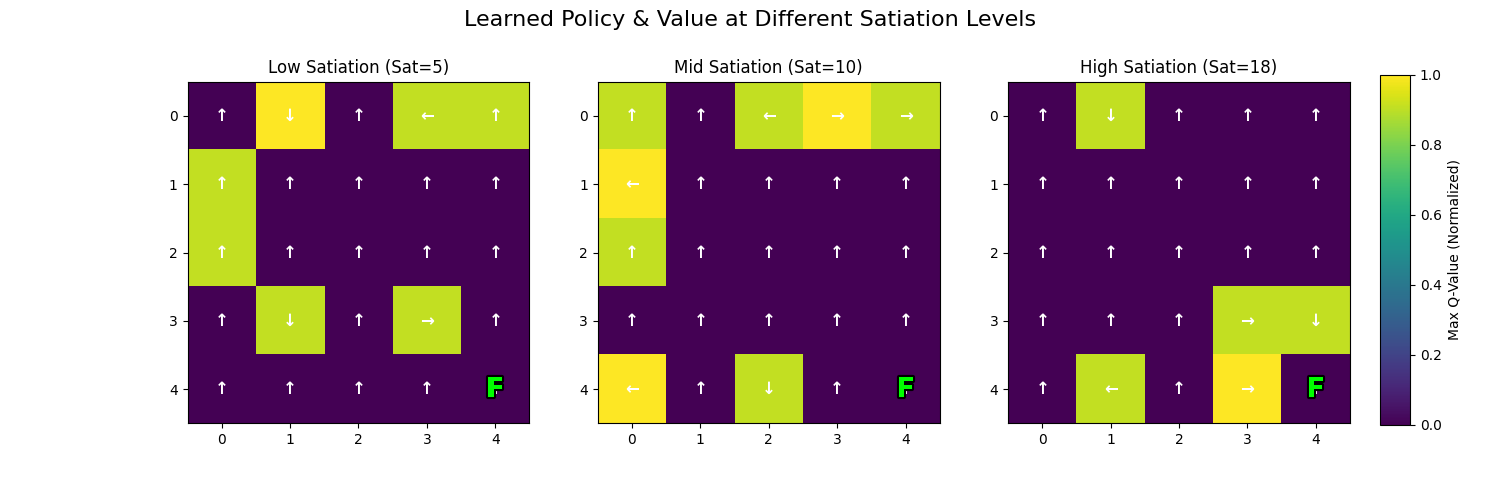
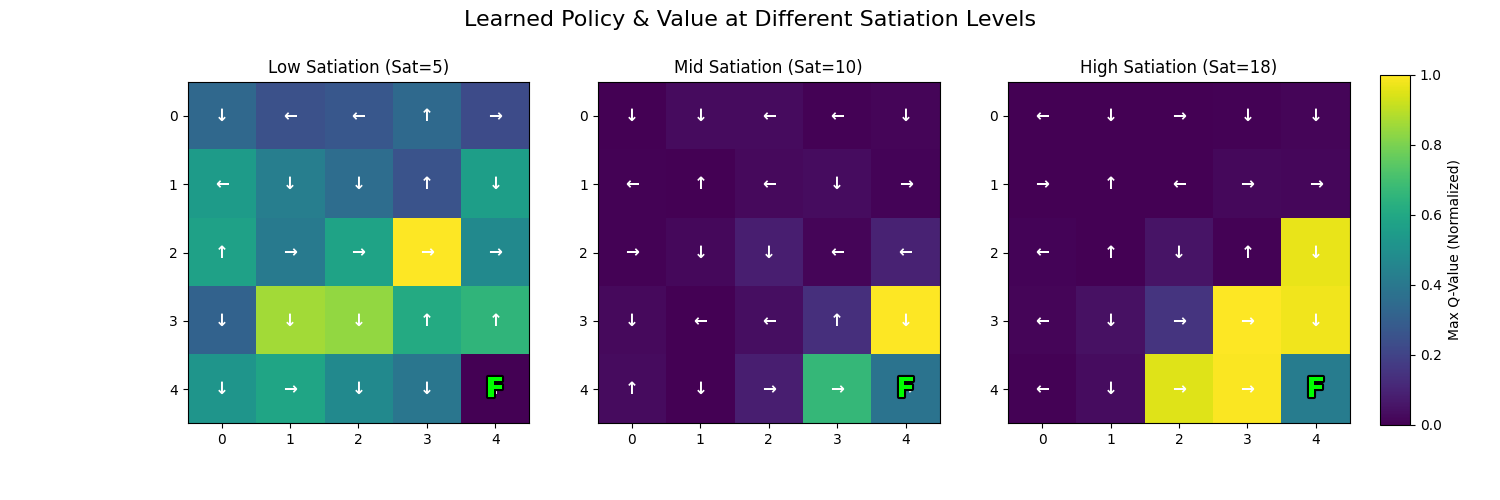
Fix testing seed application and configuration parameter passing
- Update evaluation.py to correctly override saved seed with global config/CLI
- Fix visualization.py to correctly pass all config params to Env and Body
- Ensure GridWorld handles food_pos and start_pos as tuples for correct comparison
- Update main.py to support full configuration

diff --git a/evaluation.py b/evaluation.py
@@ -14,24 +14,46 @@ import glob
 import re
 import yaml
 import sys
+import argparse
 from src.grid_world_pain.visualization import generate_visuals_from_checkpoint
+from src.grid_world_pain.config import get_default_config
 
 def main():
-    results_dir = "results"
+    parser = argparse.ArgumentParser(description="GridWorld Evaluation")
+    parser.add_argument("--seed", type=int, help="Override testing seed")
+    parser.add_argument("--results_dir", type=str, default="results", help="Path to results directory")
+    args = parser.parse_args()
+
+    results_dir = args.results_dir
     models_dir = os.path.join(results_dir, "models")
     config_path = os.path.join(models_dir, "config.yaml")
 
     # 1. Load saved configuration
     if not os.path.exists(config_path):
-        print(f"Error: Configuration file not found at {config_path}")
+        print(f"Error: Training configuration file not found at {config_path}")
         print("Please run train.py first to generate a model and its configuration.")
         return
 
-    print(f"Loading configuration from {config_path}...")
+    print(f"Loading training configuration from {config_path}...")
     with open(config_path, 'r') as f:
-        config = yaml.safe_load(f)
+        # Load into an actual Config object for ease of use
+        from src.grid_world_pain.config import Config
+        saved_config_dict = yaml.safe_load(f)
+        config = Config(saved_config_dict)
 
-    # 2. Find all checkpoints
+    # 2. Key Overrides (Allow user to change testing seed without retraining)
+    global_config = get_default_config()
+    testing_seed = args.seed or global_config.get('testing.seed', 42)
+    config.set('testing.seed', testing_seed)
+    
+    # 3. Print Summary
+    print("-" * 40)
+    print(f"Evaluation Mode: {'Interoceptive' if config.get('body.with_satiation') else 'Conventional'}")
+    print(f"Grid Size: {config.get('environment.height')}x{config.get('environment.width') if config.get('environment.width') else '?'}")
+    print(f"Testing Seed: {testing_seed}")
+    print("-" * 40)
+
+    # 4. Find all checkpoints
     checkpoints = glob.glob(os.path.join(models_dir, "q_table_*.npy"))
     
     # Sort checkpoints by percentage milestone
@@ -49,10 +71,9 @@ def main():
         print(f"No model checkpoints found in {models_dir}")
         return
 
-    print(f"Found {len(checkpoints)} checkpoints. Starting evaluation...")
-    print("-" * 40)
+    print(f"Found {len(checkpoints)} checkpoints. Starting visual generation...")
 
-    # 3. Generate visuals for each checkpoint
+    # 5. Generate visuals for each checkpoint
     for checkpoint in checkpoints:
         generate_visuals_from_checkpoint(checkpoint, results_dir, config=config)
 

diff --git a/main.py b/main.py
@@ -61,6 +61,13 @@ def main():
         
     max_steps = config.get('environment.max_steps', 100)
     random_start_satiation = config.get('body.random_start_satiation', True)
+    
+    height = config.get('environment.height', 5)
+    width = config.get('environment.width', 5)
+    food_pos = config.get('environment.food_pos', [4, 4])
+    start_pos = config.get('environment.start_pos', [0, 0])
+    max_satiation = config.get('body.max_satiation', 20)
+    start_satiation = config.get('body.start_satiation', 10)
 
     # Setup results directory
     results_dir = "results"
@@ -76,8 +83,8 @@ def main():
     print(f"Video will be saved to: {video_filename}")
 
     # Initialize components
-    env = GridWorld(with_satiation=with_satiation, max_steps=max_steps)
-    body = InteroceptiveBody(overeating_death=overeating_death, random_start_satiation=random_start_satiation)
+    env = GridWorld(height=height, width=width, start=start_pos, food_pos=food_pos, with_satiation=with_satiation, max_steps=max_steps)
+    body = InteroceptiveBody(max_satiation=max_satiation, start_satiation=start_satiation, overeating_death=overeating_death, random_start_satiation=random_start_satiation)
     
     # Mock composite env for agent init
     class CompositeEnv:

diff --git a/src/grid_world_pain/visualization.py b/src/grid_world_pain/visualization.py
@@ -274,13 +274,18 @@ def generate_visuals_from_checkpoint(checkpoint_path, results_dir, config=None):
     max_steps = config.get('environment.max_steps', 100)
     seed = config.get('testing.seed', 42)
     food_pos = config.get('environment.food_pos', [4, 4])
+    height = config.get('environment.height', 5)
+    width = config.get('environment.width', 5)
+    max_satiation = config.get('body.max_satiation', 20)
+    start_satiation = config.get('body.start_satiation', 10)
+    random_start_satiation = config.get('body.random_start_satiation', True)
     
     # Set seed for deterministic evaluation
     np.random.seed(seed)
     
     # 2. Load Agent
-    env = GridWorld(with_satiation=with_satiation, max_steps=max_steps)
-    body = InteroceptiveBody(overeating_death=overeating_death)
+    env = GridWorld(height=height, width=width, food_pos=food_pos, with_satiation=with_satiation, max_steps=max_steps)
+    body = InteroceptiveBody(max_satiation=max_satiation, start_satiation=start_satiation, overeating_death=overeating_death, random_start_satiation=random_start_satiation)
     
     class CompositeEnv:
         def __init__(self, env, body):

diff --git a/src/grid_world_pain/grid_world.py b/src/grid_world_pain/grid_world.py
@@ -44,9 +44,9 @@ class GridWorld:
         """
         self.height = height
         self.width = width
-        self.start = start
-        self.food_pos = food_pos
-        self.agent_pos = start
+        self.start = tuple(start)
+        self.food_pos = tuple(food_pos)
+        self.agent_pos = self.start
         self.with_satiation = with_satiation
         self.max_steps = max_steps
         self.current_step = 0
